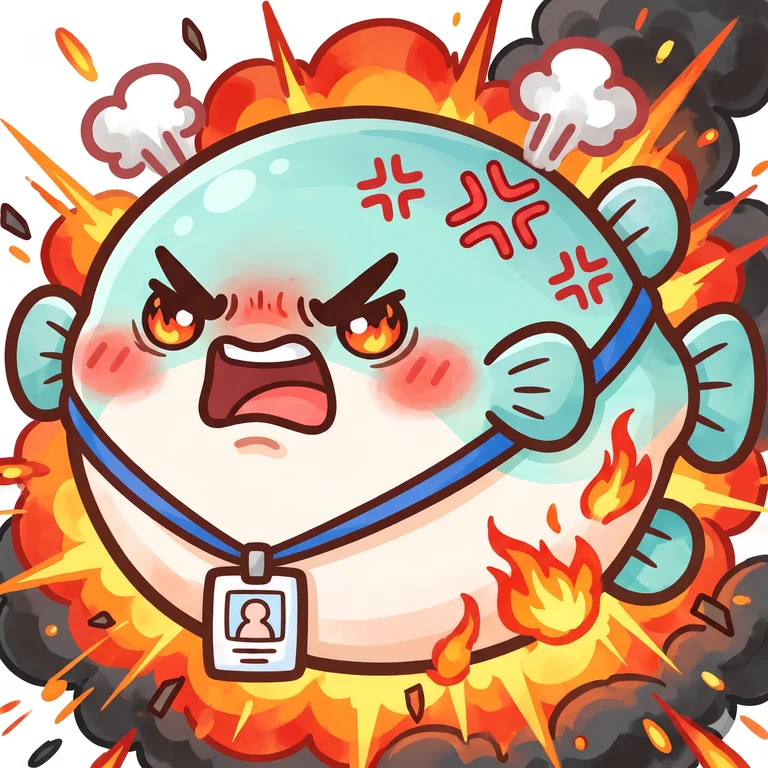
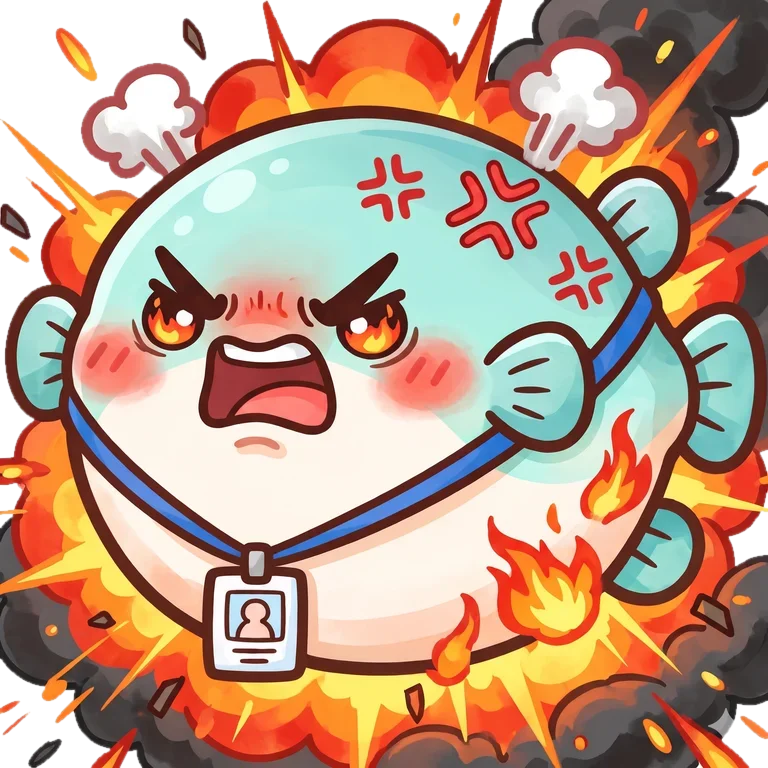
feat(M1.5-3): 퇴근 펑 연출 뒤 보상 창
Claude-Session: https://claude.ai/code/session_01HvWRb347jYjkHjAdftcxd1

diff --git a/src/App.jsx b/src/App.jsx
@@ -8,6 +8,7 @@ import RewardModal from './components/RewardModal';
 import Collection from './components/Collection';
 import MemeMaker from './components/MemeMaker';
 import Character from './components/Character';
+import Burst from './components/Burst';
 
 // 등급 가중치 랜덤 뽑기 (미수집 단어 우선)
 // 시간대 배경 (D-18). 배경 그림이 오기 전까지 그라데이션
@@ -36,6 +37,8 @@ export default function App() {
   const work = useMemo(() => getWorkPhase(settings), [settings, phaseTick]);
 
   const [reward, setReward] = useState(null); // { oath, isNew }
+  const [burst, setBurst] = useState(false);  // 보상 창 앞의 펑 연출 (M1.5-3)
+  const endBurst = useCallback(() => setBurst(false), []);
   const [showSettings, setShowSettings] = useState(false);
   const [showCollection, setShowCollection] = useState(false);
   const [meme, setMeme] = useState(null);     // { oathId } | null
@@ -52,6 +55,8 @@ export default function App() {
     if (isNew) setCollected((c) => (c.includes(oath.id) ? c : [...c, oath.id]));
     setLastReward(key);
     setReward({ oath, isNew });
+    // 동작 줄이기를 켠 기기는 연출 없이 바로 보상 창
+    setBurst(!matchMedia('(prefers-reduced-motion: reduce)').matches);
   }, [work.workEnd, lastReward, collected, setCollected, setLastReward]);
 
   // 앱을 퇴근 후에 처음 열었을 때도 보상 지급
@@ -112,7 +117,8 @@ export default function App() {
       {showSettings && (
         <SettingsSheet settings={settings} onSave={setSettings} onClose={() => setShowSettings(false)} />
       )}
-      {reward && (
+      {reward && burst && <Burst word={reward.oath.word} onDone={endBurst} />}
+      {reward && !burst && (
         <RewardModal {...reward}
           onClose={() => setReward(null)}
           onMakeMeme={() => { setMeme({ oathId: reward.oath.id }); setReward(null); }} />

diff --git a/src/components/Burst.jsx b/src/components/Burst.jsx
@@ -1,0 +1,28 @@
+import { useEffect, useState } from 'react';
+
+const imgs = import.meta.glob('../assets/character/*.webp', { eager: true, import: 'default' });
+const SWELL_MS = 1000, END_MS = 2400;
+
+// 퇴근 펑 연출 (M1.5-3): 부풀며 떨다가 → 펑 + 단어 말풍선 → onDone(보상 창). 탭하면 건너뛴다
+export default function Burst({ word, onDone }) {
+  const [boom, setBoom] = useState(false);
+  useEffect(() => {
+    const a = setTimeout(() => setBoom(true), SWELL_MS);
+    const b = setTimeout(onDone, END_MS);
+    return () => { clearTimeout(a); clearTimeout(b); };
+  }, [onDone]);
+
+  return (
+    <div data-burst className="fixed inset-0 z-50 flex flex-col items-center justify-center bg-black/70 p-6" onClick={onDone}>
+      {boom && (
+        <p className="mb-2 animate-pop rounded-2xl bg-white px-5 py-3 text-3xl font-black text-red-500 shadow-lg">
+          {word}!
+        </p>
+      )}
+      {boom
+        ? <img src={imgs['../assets/character/boom.webp']} alt="" draggable={false} className="w-72 animate-pop select-none [mask-image:radial-gradient(circle,black_58%,transparent_71%)]" />
+        : <img src={imgs['../assets/character/furious.webp']} alt="" draggable={false} className="w-64 animate-swell select-none" />}
+      <p className="mt-6 text-xs text-white/60">탭해서 건너뛰기</p>
+    </div>
+  );
+}

diff --git a/tailwind.config.js b/tailwind.config.js
@@ -10,8 +10,24 @@ export default {
           '25%': { transform: 'translate(-3px, 1px) rotate(-2deg)' },
           '75%': { transform: 'translate(3px, -1px) rotate(2deg)' },
         },
+        swell: {
+          '0%': { transform: 'scale(1) rotate(0)' },
+          '25%': { transform: 'scale(1.08) rotate(-3deg)' },
+          '50%': { transform: 'scale(1.16) rotate(3deg)' },
+          '75%': { transform: 'scale(1.24) rotate(-3deg)' },
+          '100%': { transform: 'scale(1.32) rotate(0)' },
+        },
+        pop: {
+          '0%': { transform: 'scale(0.5)', opacity: '0' },
+          '60%': { transform: 'scale(1.12)', opacity: '1' },
+          '100%': { transform: 'scale(1)' },
+        },
       },
-      animation: { shake: 'shake 0.25s linear infinite' },
+      animation: {
+        shake: 'shake 0.25s linear infinite',
+        swell: 'swell 1s ease-in forwards',
+        pop: 'pop 0.35s ease-out',
+      },
     },
   },
   plugins: [],

diff --git a/docs/milestones/M1.5-3.md b/docs/milestones/M1.5-3.md
@@ -1,18 +1,21 @@
 # M1.5-3. 퇴근 펑 연출
 > 마일스톤: M1.5 · 상위: [M1.5.md](M1.5.md)
-> 상태: ⏳ 예정
+> 상태: ✅ 완료 (2026-11-13)
 ## 왜 필요한가
 - 퇴근 순간 화가 터지며 단어가 나오는 장면을 만든다 (D-18).
 ## 정해진 것
 - 1~2초 펑 연출 뒤 지금 보상 창을 띄운다 (2026-11-13 사용자)
 - 퇴근 뒤 처음 열었을 때도 보상과 함께 한 번 보여 준다. 보상이 없으면 연출도 없다 (2026-11-13 사용자)
+- 연출: 폭발 직전 복어가 1초 떨며 부풀다가 펑 그림으로 바뀌고, 말풍선으로 뽑은 단어를 바로 보여 준다. 2.4초 뒤 보상 창 (2026-11-13 사용자 AR)
+- 탭하면 건너뛰고 바로 보상 창. 기기에서 동작 줄이기를 켰으면 연출 없이 바로 보상 창 (2026-11-13 사용자 AR)
 ## 제약
-- 보상 규칙(D-09, D-17)은 바꾸지 않는다.
-## 정할 것
-- 착수할 때 묻는다
-## 손댈 곳 (예상)
-- `src/App.jsx`, `src/components/Character.jsx`, `src/components/RewardModal.jsx`
+- 보상 규칙(D-09, D-17)은 바꾸지 않는다. 연출은 `giveReward`가 보상을 준 직후에만 켜진다.
+## 작은 판단
+- 연출은 보상 창과 같은 전체 화면 겹침(z-50, 검은 70% 배경)으로. 어떤 화면이 열려 있어도 같은 모습.
+- 펑 그림은 흰 배경을 지우고, 사각 가장자리는 CSS 원형 마스크로 흐리게.
+## 손댄 곳
+- `src/components/Burst.jsx`(새), `src/App.jsx`, `tailwind.config.js`(swell·pop), `src/assets/character/boom.webp`
 ## 체크리스트
-- [ ] Front:
-- [ ] Test:
-- [ ] Stack:
+- [x] Front: 부풀기 → 펑 + 말풍선 → 보상 창, 탭 건너뛰기, 동작 줄이기
+- [x] Test: `scripts/qa.cjs` T-21, 기존 보상 항목은 연출을 탭해 건너뛰고 확인. `npm run qa` 전체 PASS, 연출 화면 눈으로 확인
+- [x] Stack: 변경 없음

diff --git a/docs/qa/QA_CHECKLIST.md b/docs/qa/QA_CHECKLIST.md
@@ -1,7 +1,7 @@
 # QA 체크리스트
 
 > 출처: spec.md 9장(테스트 시나리오), 10장(완료 조건). 마일스톤 마감 때 전체를 돌리고 결과를 마일스톤 문서 "마감" 절에 적는다.
-> `npm run qa`가 T-01~T-12, T-07a, T-17, T-18, T-19, T-20을 자동으로 돌린다. T-16은 `npm test`가 검사한다. T-10은 `qa-out/` 두 이미지를 눈으로도 비교한다.
+> `npm run qa`가 T-01~T-12, T-07a, T-17, T-18, T-19, T-20, T-21을 자동으로 돌린다. T-16은 `npm test`가 검사한다. T-10은 `qa-out/` 두 이미지를 눈으로도 비교한다.
 > 브라우저 항목은 375px 세로 화면 기준. 시각은 기기 시계나 테스트용 시각 조작으로 맞춘다.
 
 ## 카운트다운·근무 상태
@@ -15,6 +15,7 @@
 | T-06 | 다른 탭에 갔다가 돌아옴 | 남은 시간이 바로 맞게 표시됨 |
 | T-07 | 설정에서 시간을 지움 | 저장 버튼 비활성 |
 | T-20 | 09:00~18:00, 7·10·14·16:30·17:40·19시에 열기 | 복어 졸림·평온·짜증·화남·폭발 직전(떨림)·후련, 배경 아침·아침·점심·점심·점심·밤 |
+| T-21 | 17:59:59에 열어 퇴근을 넘김. 동작 줄이기를 켜고 19시에 열기 | 복어가 부풀다 펑 + 단어 말풍선, 2.4초 뒤(또는 탭) 보상 창. 동작 줄이기면 연출 없이 바로 보상 창 |
 | T-07a | 출근과 퇴근을 같은 시각으로 | 저장 버튼 비활성, "출근과 퇴근 시각이 같아요" |
 | T-16 | 보상을 받은 뒤 퇴근 시각을 바꿔 다시 퇴근 후로 만듦 | 보상 모달이 다시 뜨지 않음 (D-17, `npm test`가 모든 조합 검사) |
 

diff --git a/docs/milestones/M1.5.md b/docs/milestones/M1.5.md
@@ -5,7 +5,7 @@
 메인을 타이머 + 캐릭터 화면으로 바꾸고, 퇴근이 가까울수록 화가 쌓이다가 퇴근 때 펑 터지며 단어가 나오게 한다. 도감은 따로 연다. 짤 템플릿을 여러 개 두고 카드 그리드로 고른다.
 ## 완료 조건
 - 사용자 확인: 휴대폰 미리보기에서 메인에 타이머와 캐릭터가 보이고, 시각을 바꿔 보면 단계마다 표정·배경이 바뀌며, 퇴근하면 펑 연출 뒤 보상 창이 뜬다. [도감] 버튼으로 도감이 열리고 뒤로 돌아온다.
-- QA: T-01 ~ T-12, T-07a, T-16, T-17, T-18, T-19, T-20, M1.5에서 추가할 표정 단계·펑 연출 항목
+- QA: T-01 ~ T-12, T-07a, T-16, T-17, T-18, T-19, T-20, T-21
 ## 정해진 것 (D-번호)
 - 메인 구성, 표정 단계, 펑 연출, 도감 분리 (D-18)
 - 짤 템플릿과 선택 시트 (D-19)
@@ -18,6 +18,6 @@
 |---|---|
 | [M1.5-1](M1.5-1.md) ✅ | 도감 화면 분리, 메인 아래 [도감] [짤 만들기] 고정 버튼 |
 | [M1.5-2](M1.5-2.md) ✅ | 캐릭터 이미지와 근무 진행률별 표정·배경 단계 |
-| [M1.5-3](M1.5-3.md) ⏳ | 퇴근 펑 연출 → 보상 창 |
+| [M1.5-3](M1.5-3.md) ✅ | 퇴근 펑 연출 → 보상 창 |
 | [M1.5-4](M1.5-4.md) ✅ | 짤 템플릿 여러 개 + 템플릿·단어 선택 시트 |
 ## 마감

diff --git a/TODO.md b/TODO.md
@@ -2,4 +2,4 @@
 
 마일스톤에 안 들어간 요청·보류·QA 지적. 반영하면 지운다.
 
-- 없음
+- 어항 배경 그림 3장(아침·점심·밤, 9:16) 받으면 그라데이션 대신 넣고 복어 위치 맞추기 (M1.5-2, 2026-11-13 사용자)
